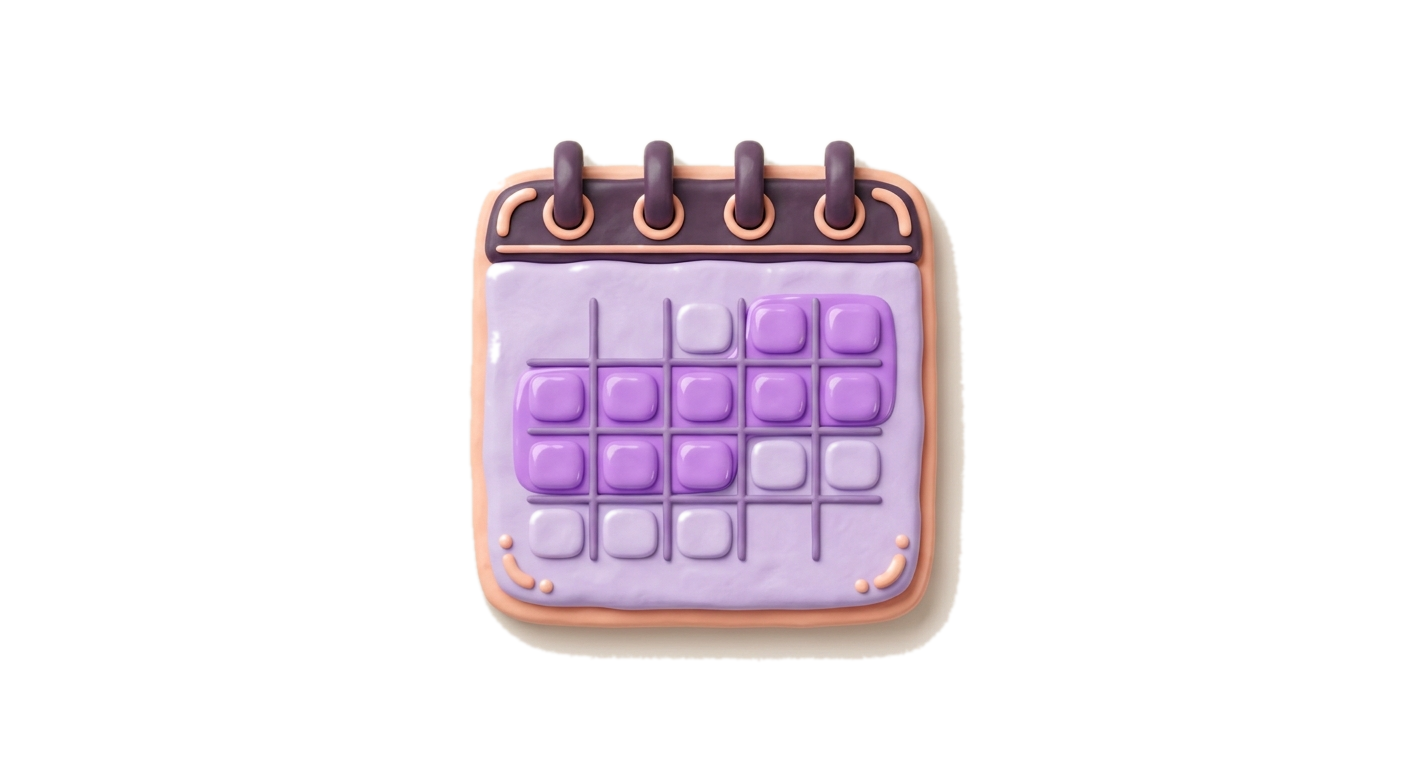
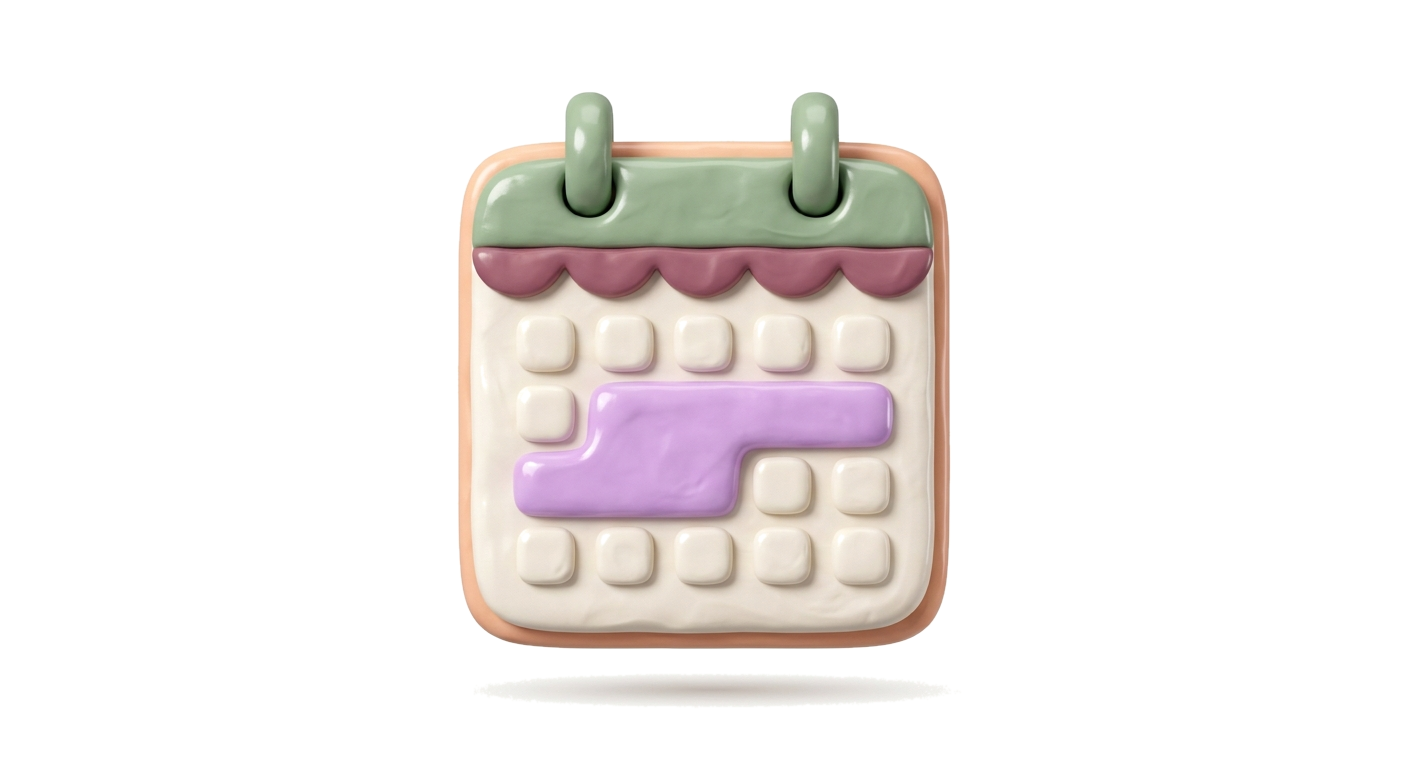
cleaner stickers, join steps centered instead of stranded at the top

Changed region(s): [[0.3125, 0.125, 0.6875, 0.9375]]

diff --git a/prototype/src/screens/Join.jsx b/prototype/src/screens/Join.jsx
@@ -309,7 +309,7 @@ export default function Join({ ig, onBack, onDone }) {
   const last = step === steps.length - 1
 
   return (
-    <div className="relative flex min-h-[var(--app-h)] flex-col overflow-hidden px-5 pb-[max(1.1rem,env(safe-area-inset-bottom))] pt-[max(1rem,env(safe-area-inset-top))]">
+    <div className="relative flex min-h-[var(--app-h)] flex-col px-5 pb-[max(1.1rem,env(safe-area-inset-bottom))] pt-[max(1rem,env(safe-area-inset-top))]">
       <div className="relative flex items-center gap-3">
         <button onClick={() => (step === 0 ? onBack() : setStep((s) => s - 1))} aria-label={t("back")}>
           <ArrowLeft size={22} weight="bold" />
@@ -323,9 +323,9 @@ export default function Join({ ig, onBack, onDone }) {
       </div>
 
       <AnimatePresence mode="wait">
-        <motion.div key={cur.key} variants={slide} initial="enter" animate="center" exit="exit" className="relative flex flex-1 flex-col pt-6">
-          {!cur.hideArt && <img src={cur.art} alt="" className="h-28 w-28 select-none" draggable="false" />}
-          {cur.title && <h1 className="display mt-3 text-[34px] font-bold leading-[0.95] tracking-tight">{cur.title}</h1>}
+        <motion.div key={cur.key} variants={slide} initial="enter" animate="center" exit="exit" className="relative flex flex-1 flex-col justify-center py-6">
+          {!cur.hideArt && <img src={cur.art} alt="" className="h-24 w-24 select-none" draggable="false" />}
+          {cur.title && <h1 className="display mt-2 text-[32px] font-bold leading-[0.98] tracking-tight">{cur.title}</h1>}
           <div className={cur.hideArt ? "" : "mt-5"}>{cur.body}</div>
         </motion.div>
       </AnimatePresence>
